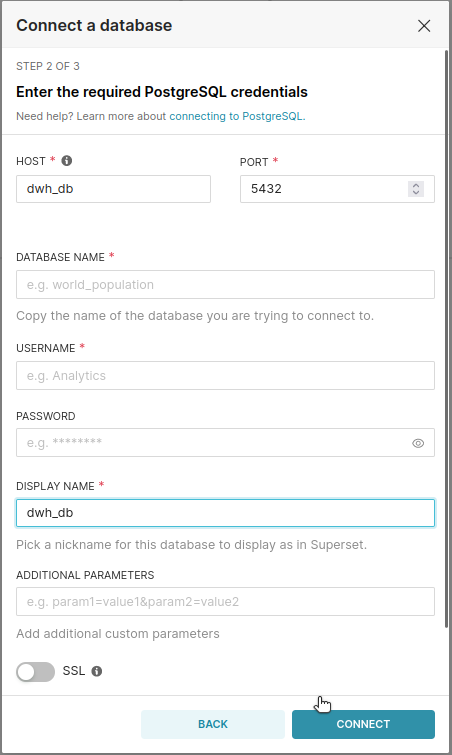
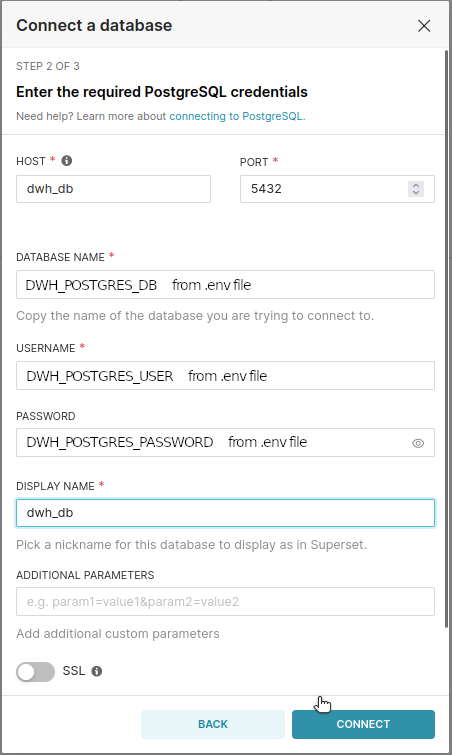
Adds setup instructions for Superset and updates the landing page with images of new capabilities.

diff --git a/docs/overrides/stylesheets/extra.css b/docs/overrides/stylesheets/extra.css
@@ -1,0 +1,3 @@
+.md-typeset figure img {
+    display: inline;
+}

diff --git a/docs/index.md b/docs/index.md
@@ -13,21 +13,30 @@ This platform automates curating a local data warehouse of interesting, up-to-da
 At present, it uses docker to provision and run:
 
 * a PostgreSQL + PostGIS database as the data warehouse,
+* **Apache Superset** for:
+    * Interactive Data Visualization and EDA
+    * Dashboarding and Reporting
+
+    ![Geospatial Data Analysis](/assets/imgs/superset/deckgl_polygon_chart_demo.png)
+    ![Time Series Analysis](/assets/imgs/superset/median_sale_price_by_property_class.png)    
+    ![Dashboarding](/assets/imgs/superset/dashboard_demo.png)
+
 * a **pgAdmin4** database administration interface,
 
     ![Sample Exploration of a DWH table](/assets/imgs/pgAdmin4/Geospatial_query_and_data_in_pgAdmin4.png)
 
-* **Airflow** components to orchestrate tasks (note: uses a LocalExecutor),
+* **Airflow** components to orchestrate execution of tasks,
 
-    ![Airflow DagBag for Cook County tag](/assets/imgs/systems/Airflow_Cook_County_Tagged_DagBag.png)
+    ![Airflow DagBag for Cook County tag](/assets/imgs/Socrata_ELT_DAG/Running_DAGs.png)
 
 * **dbt** to:
-    * manage data transformation + cleaning tasks,
+    * manage sequential data transformation + cleaning tasks,
     * serve data documentation and data lineage graphs, and
     * facilitate search of the data dictionary and data catalog 
-
-    ![dbt Data Documentation Interface](/assets/imgs/systems/dbt_data_docs_interface_showing_parcel_sales.png)
+    
     ![dbt Data Lineage Graph](/assets/imgs/systems/dbt_lineage_graph_of_parcel_sales.png)
+    ![All Data Tables' Lineage Graphs](/assets/imgs/dbt/lineage_graph_of_all_nodes.png)
+    ![One Data Set's Lineage Graph](/assets/imgs/systems/dbt_data_docs_interface_showing_parcel_sales.png)    
 
 * great_expectations for anomaly detection and data monitoring, and
 
@@ -35,8 +44,8 @@ At present, it uses docker to provision and run:
 
 * custom python code that makes it easy to implement an ELT pipeline for [any other table hosted by Socrata](http://www.opendatanetwork.com/)
 
-    ![load_data_tg TaskGroup High Level](/assets/imgs/Socrata_ELT_DAG/High_level_load_data_tg.PNG)
-
     ![data-loading TaskGroups in load_data_tg TaskGroup](/assets/imgs/Socrata_ELT_DAG/Full_view_data_loaders_in_load_data_tg.PNG)
 
-    ![load_data_tg TaskGroup High Level](/assets/imgs/Socrata_ELT_DAG/High_level_load_data_tg.PNG)
+    ![load_data_tg TaskGroup High Level](/assets/imgs/Socrata_ELT_DAG/load_data_task_group_w_checkpoints.png)    
+
+    ![automate as much pipeline development as possible](/assets/imgs/Socrata_ELT_DAG/generate_and_run_dbt_models.png)

diff --git a/docs/setup/superset_setup.md b/docs/setup/superset_setup.md
@@ -1,0 +1,31 @@
+# Setting up Superset
+
+Log in to superset at [http://localhost:8088](http://localhost:8088) using the `ADMIN_USERNAME` and `ADMIN_PASSWORD` from your `.env.superset` file.
+
+## Connecting to the Data Warehouse Database
+Before you can develop charts and dashboards in Apache Superset, you have to create a connection to your data warehouse database.
+
+Click the :material-plus-thick: (in the upper right corner) and then select the **Connect database** option from the **:material-database: Data** menu. 
+
+![Connecting a database](/assets/imgs/superset/connecting_a_db_step_0_of_3.png)
+
+Select the PostgreSQL option and then enter the following credentials:
+
+* **HOST:** enter **dwh_db** (must match the name of the DB service in the `docker-compose.yml`)
+* **PORT:** 5432
+* **DATABASE NAME:** enter the value of the **DWH_POSTGRES_DB** env var from your `.env` file
+* **USERNAME:** enter the value of the **DWH_POSTGRES_USER** env var from your `.env` file
+* **PASSWORD:** enter the value of the **DWH_POSTGRES_PASSWORD** env var from your `.env` file
+* **DISPLAY NAME:** Anything descriptive (recommended: **dwh_db**)
+
+![Select the PostgreSQL database driver](/assets/imgs/superset/connecting_a_db_step_1_of_3.png){ style="width:49%" }
+![Enter your credentials for the data warehouse database](/assets/imgs/superset/connecting_a_db_step_2_of_3.png){ style="width:49%" }
+
+<!-- ![Select the PostgreSQL database driver](/assets/imgs/superset/connecting_a_db_step_3_of_3.png) -->
+<!-- { style="width:49%" } -->
+
+If credentials and configs were entered correctly (and the database container is running), superset will successfully connect to the database and you can save the connection by clicking **FINISH**.
+
+<figure markdown>
+  ![Select the PostgreSQL database driver](/assets/imgs/superset/connecting_a_db_step_3_of_3.png)
+</figure>
